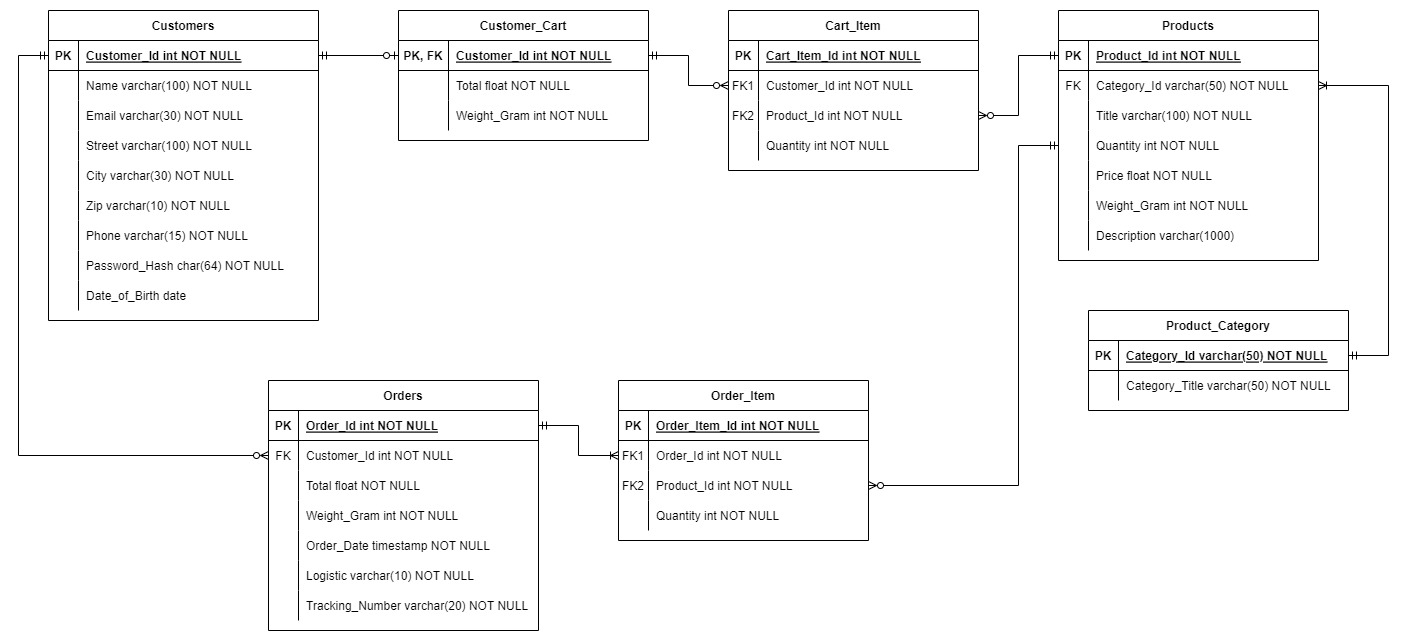
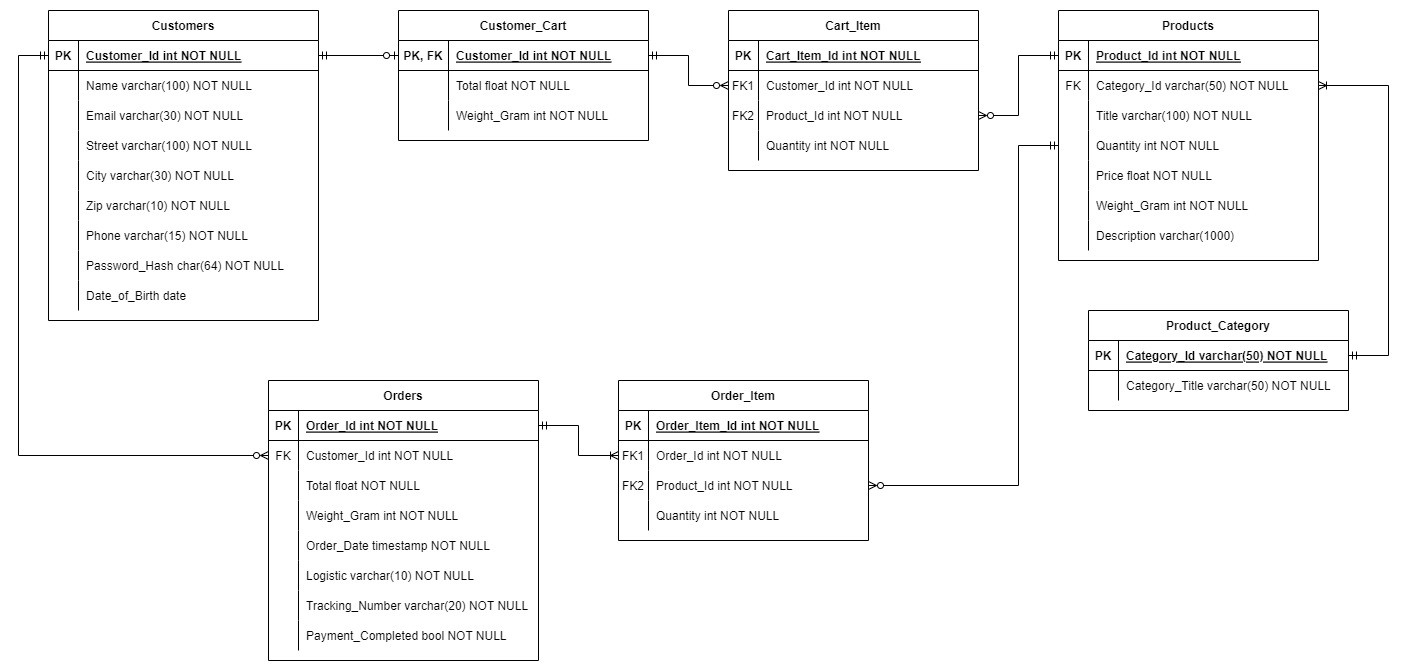
added Payment_Completed column in Orders Table, and modifying CheckoutModel to support it

diff --git a/server/models/CheckoutModel.go b/server/models/CheckoutModel.go
@@ -2,10 +2,7 @@ package models
 
 import (
 	"database/sql"
-	"math/rand"
 	"os"
-	"strconv"
-	"time"
 
 	_ "github.com/go-sql-driver/mysql"
 )
@@ -22,11 +19,11 @@ func Checkout(customer_id string, logistic string) (result *sql.Rows, err error)
 	}
 
 	// random tracking number
-	rand.Seed(time.Now().UnixNano())
-	min, max := 1000000000, 9999999999
-	tracking_number := strconv.Itoa(rand.Intn(max-min+1) + min)
+	// rand.Seed(time.Now().UnixNano())
+	// min, max := 1000000000, 9999999999
+	// tracking_number := strconv.Itoa(rand.Intn(max-min+1) + min)
 
-	query := "INSERT INTO Orders (Customer_Id, Total, Weight_Gram, Order_Date, Logistic, Tracking_Number) SELECT Customers.Customer_Id, Customer_Cart.Total, Customer_Cart.Weight_Gram, NOW() AS Order_Date, '" + logistic + "' AS Logistic, '" + tracking_number + "' AS Tracking_Number FROM Customers, Customer_Cart WHERE Customers.Customer_Id=" + customer_id + " AND Customer_Cart.Customer_Id=" + customer_id + ";"
+	query := "INSERT INTO Orders (Customer_Id, Total, Weight_Gram, Order_Date, Logistic) SELECT Customers.Customer_Id, Customer_Cart.Total, Customer_Cart.Weight_Gram, NOW() AS Order_Date, '" + logistic + "' AS Logistic FROM Customers, Customer_Cart WHERE Customers.Customer_Id=" + customer_id + " AND Customer_Cart.Customer_Id=" + customer_id + ";"
 
 	result, err = db.Query(query)
 	if err != nil {
